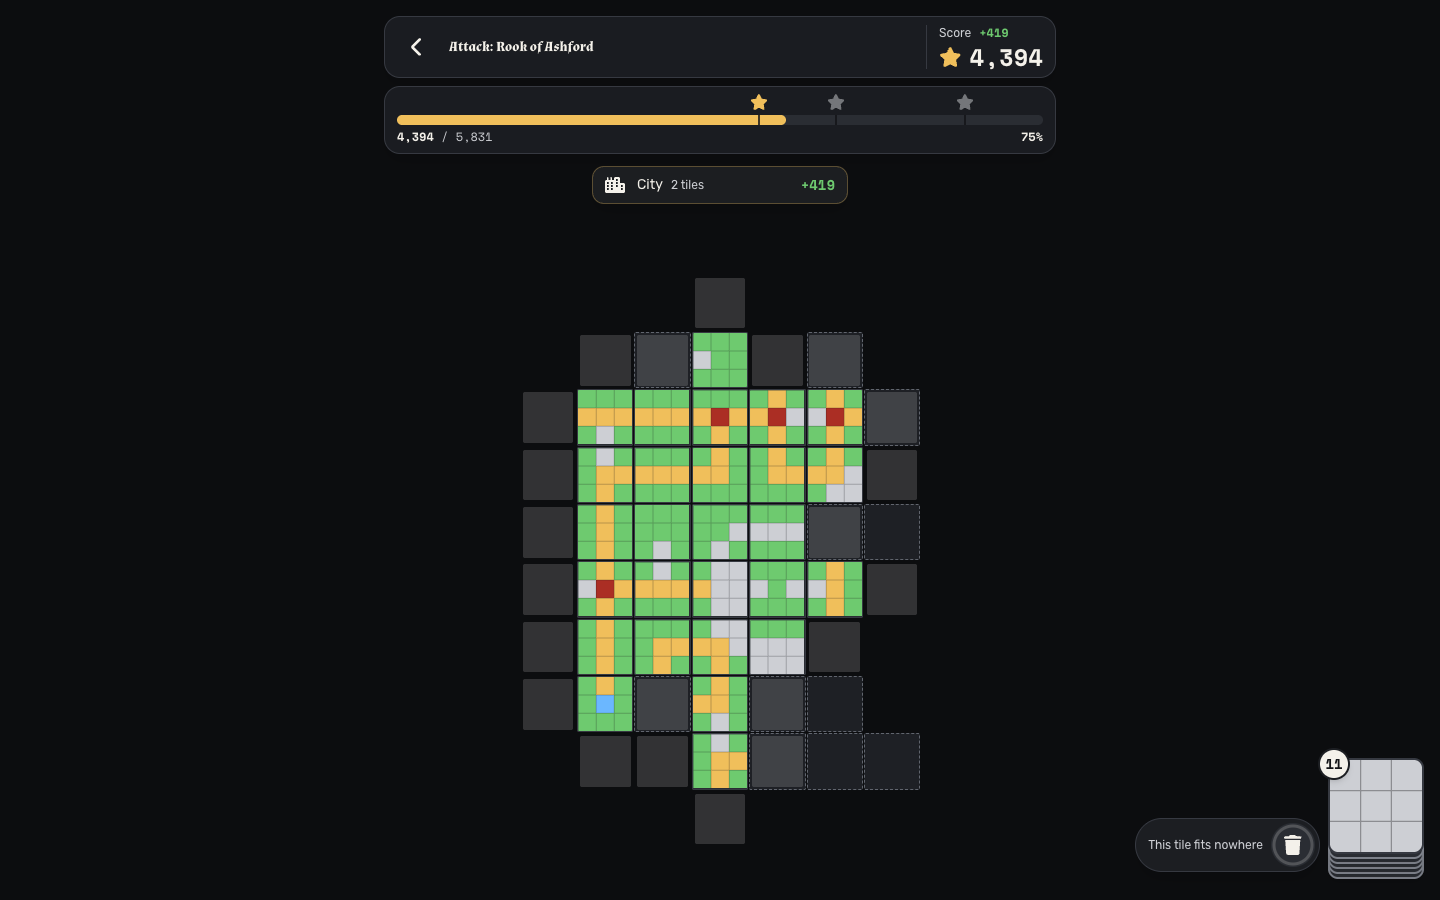
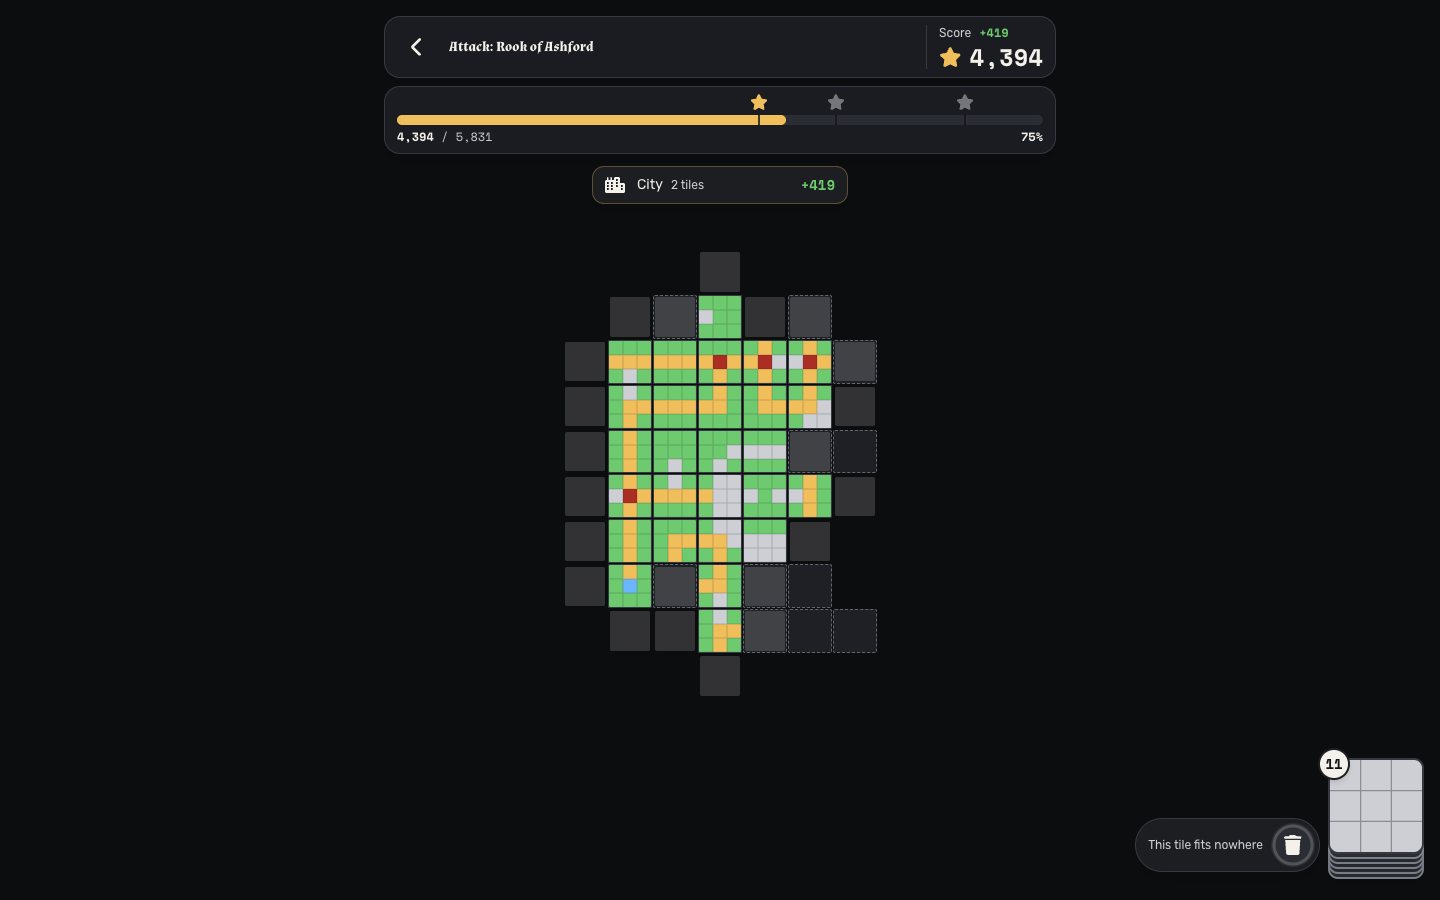
PVP-FLOW: the board sized to its own box, so the scout's card never covers a tile; captures refreshed
BoardMap's fit option makes the map a size container's: the grid takes
min(100cqw, 100cqh x cols / rows) instead of a share of the viewport.
Measured in the browser at 375x812, 360x640 and 1440x900, the shielded,
failed and ready scouts: no tile under the card.

Changed region(s): [[0.3438, 0.28, 0.6562, 0.9333]]

diff --git a/packages/app/src/components/containers/board-map.tsx b/packages/app/src/components/containers/board-map.tsx
@@ -31,6 +31,11 @@ export interface BoardMapProps {
    * The map frames them too, so an attack's first tiles sit in the whole territory.
    */
   territory?: readonly { x: number; y: number }[];
+  /**
+   * The map sized to its own box (a size container), not to the viewport: for a board that shares the screen with a panel of
+   * any height (the PvP scout's card), so no tile ever runs under it.
+   */
+  fit?: boolean;
   className?: string;
 }
 
@@ -86,7 +91,7 @@ function ConfirmFlash({ style }: { style: CSSProperties }) {
  * it where the 3D canvas is not given or cannot start: in the render tests (jsdom has no WebGL), without WebGL, and as
  * a plan view. With `slots` it is playable: each legal slot is a button on its plate, the ghost shows the tile in hand.
  */
-export function BoardMap({ tiles, slots, ghost, confirmed, onSlotClick, highlight = true, grid: showGrid = false, territory, className }: BoardMapProps) {
+export function BoardMap({ tiles, slots, ghost, confirmed, onSlotClick, highlight = true, grid: showGrid = false, territory, fit = false, className }: BoardMapProps) {
   const slotList = slots ?? [];
   if (tiles.length === 0) return null;
   const plates = highlight ? boardPlates(tiles, slots) : [];
@@ -115,13 +120,18 @@ export function BoardMap({ tiles, slots, ghost, confirmed, onSlotClick, highligh
   const stateOf = new Map(plates.map((p) => [`${p.x},${p.y}`, p.state]));
   const at = (x: number, y: number) => ({ gridColumn: x - minX + 1, gridRow: maxY - y + 1 });
   return (
-    <div className={cn("absolute inset-0 grid place-items-center overflow-hidden bg-board p-6", className)}>
+    <div className={cn("absolute inset-0 grid place-items-center overflow-hidden bg-board p-6", className)} style={fit ? { containerType: "size" } : undefined}>
       <div
         // A picture, unless its slots make it a set of controls.
         role={slotList.length ? "group" : "img"}
         aria-label={`Board of ${tiles.length} tiles${territory ? ` in a territory of ${territory.length} cells` : ""}`}
         className="grid aspect-square w-full max-w-[min(90vw,70vh)] gap-px"
-        style={{ gridTemplateColumns: `repeat(${cols}, 1fr)`, gridTemplateRows: `repeat(${rows}, 1fr)`, aspectRatio: `${cols} / ${rows}` }}
+        style={{
+          gridTemplateColumns: `repeat(${cols}, 1fr)`,
+          gridTemplateRows: `repeat(${rows}, 1fr)`,
+          aspectRatio: `${cols} / ${rows}`,
+          ...(fit ? { width: `min(100cqw, 100cqh * ${cols} / ${rows})`, maxWidth: "none" } : {}),
+        }}
       >
         {ground.map((c) => (
           <span key={`t${c.x},${c.y}`} aria-hidden data-territory style={at(c.x, c.y)} className="block min-h-0 min-w-0 rounded-[2px] border border-dashed border-input bg-secondary/60" />

diff --git a/packages/app/src/components/scenes/pvp-scout-scene.tsx b/packages/app/src/components/scenes/pvp-scout-scene.tsx
@@ -51,7 +51,7 @@ export function PvpScoutScene(props: PvpScoutSceneProps) {
     <div className="relative flex h-dvh min-h-[36rem] flex-col overflow-hidden bg-board text-foreground">
       <div data-scout-board className="relative min-h-0 flex-1 desktop:absolute desktop:inset-0">
         {props.canvas ?? (
-          <BoardMap tiles={[...village.tiles]} territory={village.cells} highlight={false} className="p-3 tablet:p-6 desktop:pt-20 desktop:pr-[27rem]" />
+          <BoardMap tiles={[...village.tiles]} territory={village.cells} highlight={false} fit className="p-3 tablet:p-6 desktop:pt-20 desktop:pr-[27rem]" />
         )}
       </div>
 

diff --git a/packages/app/src/components/scenes/pvp-attack-scene.tsx b/packages/app/src/components/scenes/pvp-attack-scene.tsx
@@ -113,6 +113,7 @@ export function PvpAttackScene(props: PvpAttackSceneProps) {
         <BoardMap
           tiles={props.tiles}
           territory={props.territory}
+          fit
           slots={replay ? undefined : props.slots}
           ghost={replay ? null : props.ghost}
           onSlotClick={props.onSlotClick}
